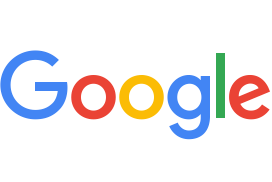
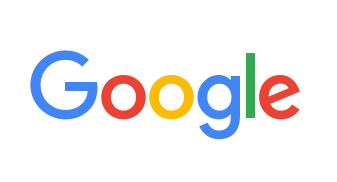
2021/12/21-1

Changed region(s): [[0.4706, 0.2747, 1.0, 0.7692], [0.0, 0.2747, 0.5, 0.6593]]

diff --git a/index.html b/index.html
@@ -221,8 +221,8 @@
   <tr>
     <td width="33%" valign="top" align="center">
         <a href="#">
-
-        <a href="https://google.com"><img src="images/Google.png" alt="sym" width="130" height="90" style="border-radius:15px"><a>
+        <a href="https://www.ntu.edu.tw/"><img src="images/ntu.png" alt="sym" width="100" height="100" style="border-radius:15px"><a>
+        <a href="https://google.com"><img src="images/Google.png" alt="sym" width="150" height="90" style="border-radius:15px"><a>
         </a>
     </td>
     <td width="67%" valign="top">
@@ -230,11 +230,6 @@
             <heading>Research Member</heading></a>
             <br>Google Pixel</font><a><font color="black"> / </font>
             <a href="https://www.csie.ntu.edu.tw/~liao"><font color="black">Consensus Labs of National Taiwan University</font><a><br>
-
-            <!-- <a href="https://ucarer.tw/"><br><font color="black">Ucarer Inc.</font><a>
-              <font color="black">/</font>
-              <a href="https://utimecloud.com/"><font color="black">Time Banking Cloud Services</font><a><br> -->
-
             <n id="inout21_abs"> <font color="black">Sep. 2021 - Present<br><i>Taipei, Taiwan</font><i><n>
         </div>
     </td>
@@ -318,7 +313,28 @@
   <tr>
     <td width="33%" valign="top" align="center">
         <a href="#">
-        <a href="https://ucarer.tw/"><img src="images/ucarer.png" alt="sym" width="120" height="120" style="border-radius:15px"><a>
+        <a href="https://www.bcg.com/offices/taipei/default"><img src="images/bcg.jpg" alt="sym" width="120" height="120" style="border-radius:8px"><a>
+        <a href="https://giftpack.io/"><img src="images/giftpack.png" alt="sym" width="118" height="119" style="border-radius:0px"><br><a>
+        </a>
+    </td>
+    <td width="67%" valign="top">
+        <p>
+            <heading>Capstone Project Consultant</heading></a>
+            <a href="https://www.bcg.com/offices/taipei/default"><br><font color="black">Boston Consulting Group (BCG)</font><a>
+              <font color="black">/</font>
+              <a href="https://giftpack.io/"><font color="black">Giftpack</font><a><br>
+            <n id="inout21_abs"> <font color="black">Sep. 2021 - Present<br><i>Taipei, Taiwan<i></font><n>
+            <br>
+        </div>
+    </td>
+  </tr>
+
+
+  <tr>
+    <td width="33%" valign="top" align="center">
+        <a href="#">
+        <a href="https://ucarer.tw/"><img src="images/ucarer.png" alt="sym" width="120" height="120" style="border-radius:8px"><a>
+        <a href="https://utimecloud.com/"><img src="images/time banking.png" alt="sym" width="120" height="120" style="border-radius:8px"><a>        
         </a>
     </td>
     <td width="67%" valign="top">
@@ -416,6 +432,23 @@
   <tr>
     <td width="33%" valign="top" align="center">
         <a href="#">
+        <a href="https://www.ibm.com/tw-zh"><img src="images/ibm.png" alt="sym" width="125" height="120" style="border-radius:8px"><a>
+        </a>
+    </td>
+    <td width="67%" valign="top">
+        <p>
+            <heading>Talent Cultivating Program-Technology Consultant Trainee (Data Scientist Track)</heading></a>
+            <br>
+            <n>International Business Machines Corporation (IBM)<n><br>
+            <n id="inout21_abs"> <font color="black">Sep. 2021 - Present<br><i>Taipei, Taiwan<i></font><n>
+            <br>
+        </div>
+    </td>
+  </tr>
+
+  <tr>
+    <td width="33%" valign="top" align="center">
+        <a href="#">
         <a href="https://www.npm.gov.tw/en/"><img src="images/npm.png" alt="sym" width="125" height="120" style="border-radius:15px"><a>
         </a>
     </td>
@@ -468,7 +501,7 @@
   <tr>
     <td width="33%" valign="top" align="center">
         <a href="#">
-        <a href="https://hpair.org/"><img src="images/hpair.png" alt="sym" width="120" height="120" style="border-radius:15px"><a>
+        <a href="https://hpair.org/"><img src="images/hpair 2.png" alt="sym" width="130" height="130" style="border-radius:15px"><a>
         </a>
     </td>
     <td width="67%" valign="top">
@@ -477,6 +510,23 @@
             <br>
         	Harvard College Project for Asian and International Relations (HPAIR)<a><br>
             <n id="inout21_abs"> <font color="black">Jan. 2021 and Aug. 2021<br><i>Boston, MA<i></font><n>
+            <br>
+        </div>
+    </td>
+  </tr>
+
+  <tr>
+    <td width="33%" valign="top" align="center">
+        <a href="#">
+        <a href="https://www.sanofi.com.tw/"><img src="images/sanofi 2.png" alt="sym" width="100" height="100" style="border-radius:15px"><a>
+        </a>
+    </td>
+    <td width="67%" valign="top">
+        <p>
+            <heading>Trainee</heading></a>
+            <br>
+            Sanofi Pharmaceutical Winter Program<a><br>
+            <n id="inout21_abs"> <font color="black">Jan. 2021 - Feb. 2021<br><i>Taipei, Taiwan<i></font><n>
             <br>
         </div>
     </td>
@@ -524,7 +574,7 @@
   <tr>
     <td width="33%" valign="top" align="center">
         <a href="#">
-        <a href="https://www.hcapconference.org/"><img src="images/hcap.png" alt="sym" width="125" height="125" style="border-radius:15px"><a>
+        <a href="https://www.hcapconference.org/"><img src="images/hcap 2.png" alt="sym" width="130" height="130" style="border-radius:15px"><a>
         </a>
     </td>
     <td width="67%" valign="top">
